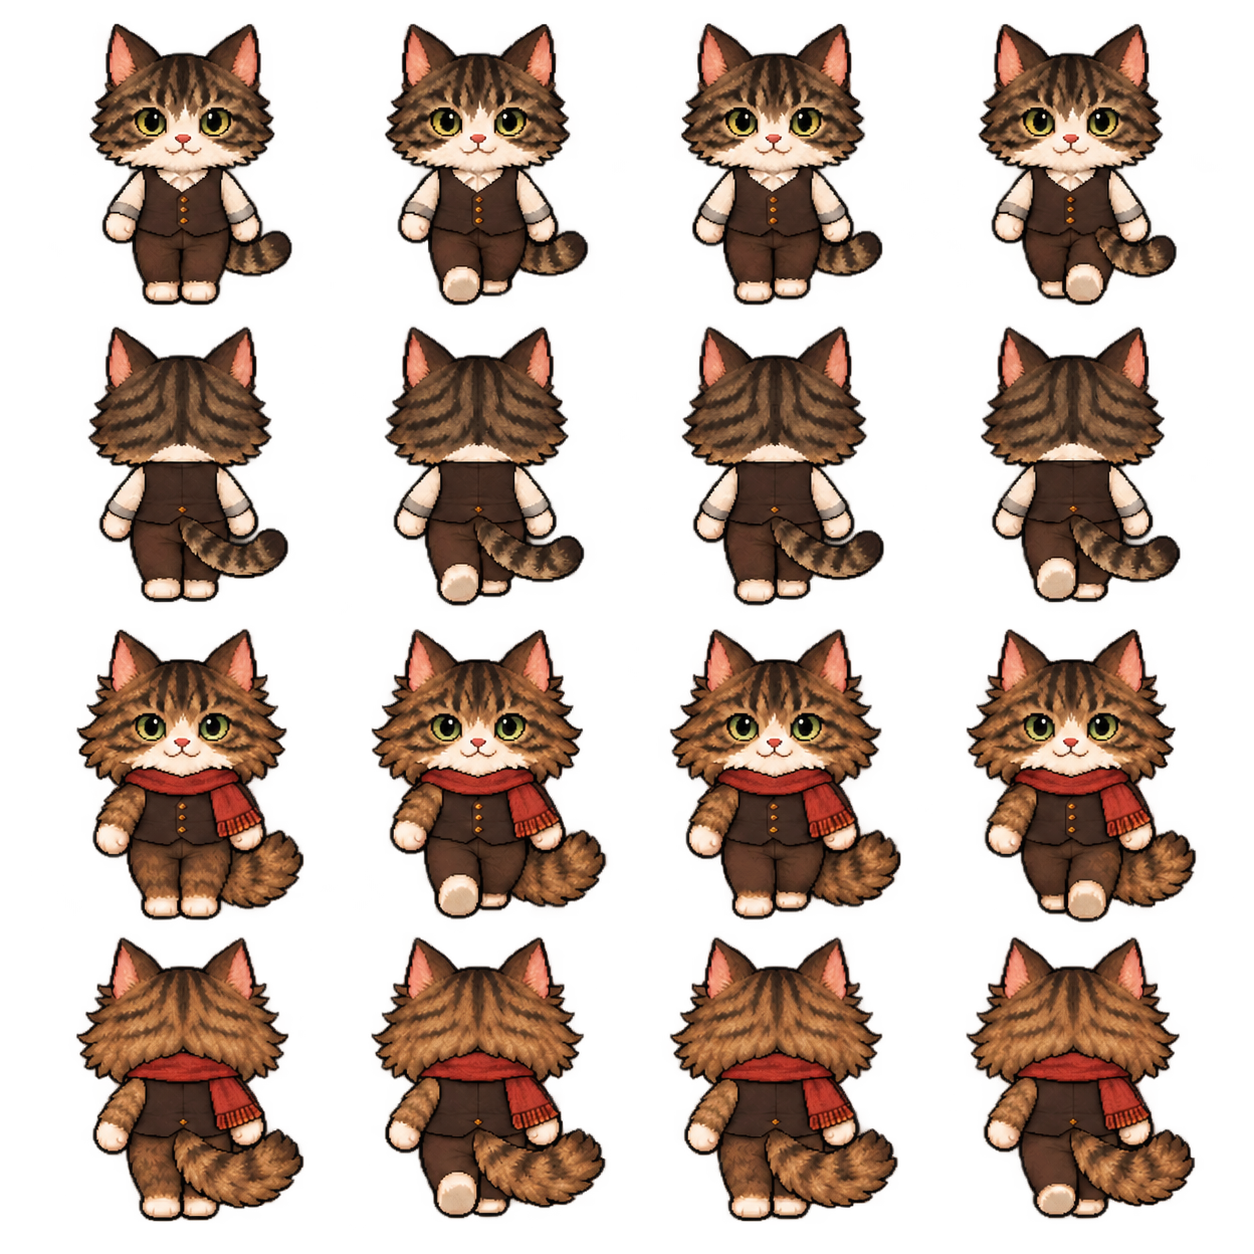
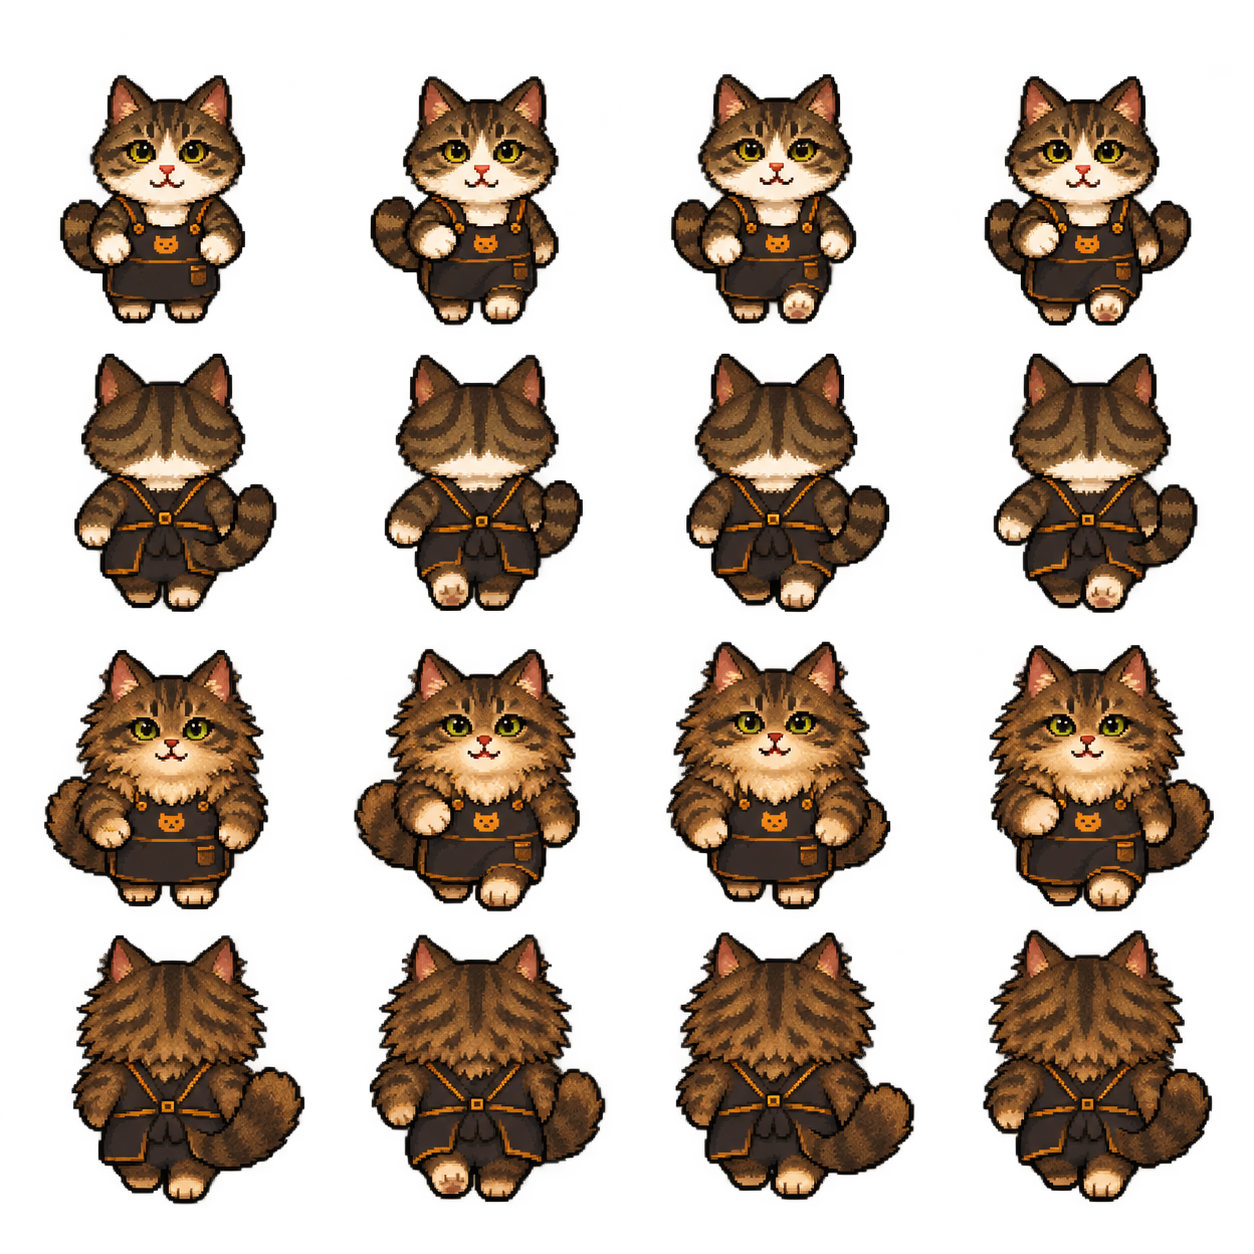
Reduce cat size and align facing walks with original motion artwork

diff --git a/animation-preview.html b/animation-preview.html
@@ -1,28 +1,28 @@
 <!doctype html><html lang="ja"><head><meta charset="utf-8"><meta name="viewport" content="width=device-width,initial-scale=1"><title>ぐりおとぽんた｜アニメーション確認</title><style>
-*{box-sizing:border-box}body{margin:0;background:#f7ecdb;color:#51372a;font-family:system-ui,sans-serif}header{padding:20px 16px;background:#7b4d32;color:white}h1{font-size:22px;margin:0}p{margin:8px 0}.wrap{max-width:1000px;margin:auto;padding:16px}.controls{display:flex;gap:12px;align-items:center;flex-wrap:wrap;padding:12px;background:#fff7ec;border-radius:14px;margin-bottom:16px}.grid{display:grid;grid-template-columns:repeat(auto-fit,minmax(160px,1fr));gap:12px}.card{background:#fffaf1;border:2px solid #dfb995;border-radius:16px;padding:12px;text-align:center}.card h2{font-size:16px;margin:0 0 8px}.stage{height:145px;display:flex;align-items:end;justify-content:center;background:linear-gradient(#f3dfc8 72%,#d1a47c 72%);border-radius:10px;overflow:hidden}.stage canvas{width:120px;height:130px;image-rendering:pixelated}label{font-weight:bold}input{accent-color:#a66b45}a{color:#a0552f}small{color:#826a57}</style></head><body><header><h1>🐾 ぐりお・ぽんた アニメーション検査室</h1><p>本番と同じ素材・基準位置で、歩行全コマと表情8種類を確認できます。設定画から切り出した素材と、足先だけを動かす歩行4コマを表示します。毛づくろいは既存ポーズで代用しています。</p></header><main class="wrap"><div class="controls"><label><input type="checkbox" id="play" checked> 再生</label><label>速度 <input id="speed" type="range" min="1" max="12" value="6"></label><label><input id="flip" type="checkbox"> 左右反転</label><small>スプライトの欠け・顔・口・足元をチェック</small></div><div id="grid" class="grid"></div><p><a href="./">← ゲームに戻る</a></p></main><script src="./character-detail.js?v=20261011-direction-bow"></script><script src="./character-art.js?v=20261011-direction-bow"></script><script>
+*{box-sizing:border-box}body{margin:0;background:#f7ecdb;color:#51372a;font-family:system-ui,sans-serif}header{padding:20px 16px;background:#7b4d32;color:white}h1{font-size:22px;margin:0}p{margin:8px 0}.wrap{max-width:1000px;margin:auto;padding:16px}.controls{display:flex;gap:12px;align-items:center;flex-wrap:wrap;padding:12px;background:#fff7ec;border-radius:14px;margin-bottom:16px}.grid{display:grid;grid-template-columns:repeat(auto-fit,minmax(160px,1fr));gap:12px}.card{background:#fffaf1;border:2px solid #dfb995;border-radius:16px;padding:12px;text-align:center}.card h2{font-size:16px;margin:0 0 8px}.stage{height:145px;display:flex;align-items:end;justify-content:center;background:linear-gradient(#f3dfc8 72%,#d1a47c 72%);border-radius:10px;overflow:hidden}.stage canvas{width:120px;height:130px;image-rendering:pixelated}label{font-weight:bold}input{accent-color:#a66b45}a{color:#a0552f}small{color:#826a57}</style></head><body><header><h1>🐾 ぐりお・ぽんた アニメーション検査室</h1><p>本番と同じ素材・基準位置で、歩行全コマと表情8種類を確認できます。元のモーションと、それに合わせた前後の歩行をゲームと同じ縮小率で表示します。毛づくろいは既存ポーズで代用しています。</p></header><main class="wrap"><div class="controls"><label><input type="checkbox" id="play" checked> 再生</label><label>速度 <input id="speed" type="range" min="1" max="12" value="6"></label><label><input id="flip" type="checkbox"> 左右反転</label><small>スプライトの欠け・顔・口・足元をチェック</small></div><div id="grid" class="grid"></div><p><a href="./">← ゲームに戻る</a></p></main><script src="./character-detail.js?v=20261011-direction-bow"></script><script src="./character-art.js?v=20261011-motion-scale"></script><script src="./rear-walk.js?v=20261011-motion-scale"></script><script>
 const items=[];
 const names={idle:'待機',sit:'座る',jump:'ジャンプ／喜ぶ',bow:'お辞儀／接客',serve:'配膳',coffee:'調理',cake:'ケーキ',clean:'掃除',surprise:'驚く',sleepbag:'睡眠',box:'段ボール',f_normal:'通常',f_happy:'笑顔',f_kiri:'にっこり',f_surprise:'驚き',f_sleepy:'眠い',f_angry:'怒る',f_tehe:'照れる',f_amae:'甘える'};
 let tick=0,last=0;
-CatArtwork.load().then(sprites=>{
+Promise.all([CatArtwork.load(),RearWalk.load]).then(([sprites])=>{
   for(const who of Object.keys(sprites)) {
-    const poses=[['walk', [0,1,2,3].map(i=>sprites[who]['walk'+i])], ...Object.entries(sprites[who]).map(([key,im])=>[key,[im]])];
+    const poses=[['frontWalk', [0,1,2,3].map(i=>RearWalk.cat(who,i,sprites[who].walk0,null,'front'))],['backWalk', [0,1,2,3].map(i=>RearWalk.cat(who,i,sprites[who].walk0,null,'back'))],['walk', [0,1,2,3].map(i=>sprites[who]['walk'+i])], ...Object.entries(sprites[who]).map(([key,im])=>[key,[im]])];
     for(const [key,frames] of poses){
       const card=document.createElement('section');card.className='card';
-      const title=document.createElement('h2');title.textContent=(who==='grio'?'ぐりお':'ぽんた')+'・'+(key==='walk'?'歩行4コマ':key.startsWith('walk')?'歩行コマ '+key.slice(-1):(names[key]||({run:'走る',joy:'喜ぶ'}[key])||key));
+      const title=document.createElement('h2');title.textContent=(who==='grio'?'ぐりお':'ぽんた')+'・'+(key==='frontWalk'?'前向きの歩行':key==='backWalk'?'後ろ向きの歩行':key==='walk'?'横向きの歩行4コマ':key.startsWith('walk')?'歩行コマ '+key.slice(-1):(names[key]||({run:'走る',joy:'喜ぶ'}[key])||key));
       const stage=document.createElement('div');stage.className='stage';
       const cv=document.createElement('canvas');cv.width=160;cv.height=130;cv.style.width='160px';
-      stage.append(cv);card.append(title,stage);document.querySelector('#grid').append(card);items.push({key,frames,cv});
+      stage.append(cv);card.append(title,stage);document.querySelector('#grid').append(card);items.push({who,key,frames,cv});
     }
   }
 }).catch(e=>{document.querySelector('#grid').textContent=e.message;});
 function render(now){
   if(document.querySelector('#play').checked&&now-last>180-document.querySelector('#speed').value*10){tick++;last=now;}
-  for(const {frames,cv} of items){
+  for(const {who,frames,cv} of items){
     const g=cv.getContext('2d'),im=frames[tick%frames.length];
     g.clearRect(0,0,cv.width,cv.height);g.imageSmoothingEnabled=false;g.save();
     if(document.querySelector('#flip').checked){g.translate(cv.width,0);g.scale(-1,1);}
-    const scale=Math.min(2,cv.width/im.width,(cv.height-2)/im.height);
-    g.drawImage(im,Math.round((cv.width-im.width*scale)/2),Math.round(cv.height-im.height*scale),Math.round(im.width*scale),Math.round(im.height*scale));g.restore();
+    const size=CatArtwork.displaySize(who,im);
+    g.drawImage(im,Math.round((cv.width-size.width)/2),cv.height-size.height,size.width,size.height);g.restore();
     g.fillStyle='#bd9272';g.fillRect(0,129,160,1);
   }
   requestAnimationFrame(render);

diff --git a/rear-walk.js b/rear-walk.js
@@ -2,7 +2,7 @@
 (function () {
   'use strict';
   const mainCats = new Image(), extraCats = new Image(), guestAtlas = new Image(), cache = new Map();
-  const mainMeta = [[{"bounds":[90,24,202,281],"axis":181.5},{"bounds":[385,24,203,281],"axis":477},{"bounds":[681,24,201,281],"axis":772.5},{"bounds":[979,24,197,281],"axis":1070}],[{"bounds":[89,327,199,275],"axis":179.5},{"bounds":[385,327,199,279],"axis":476},{"bounds":[682,327,202,278],"axis":773.5},{"bounds":[981,327,199,275],"axis":1072}],[{"bounds":[77,629,226,291],"axis":181},{"bounds":[372,630,234,289],"axis":477},{"bounds":[670,630,231,289],"axis":775},{"bounds":[967,629,229,293],"axis":1070.5}],[{"bounds":[77,938,226,283],"axis":182},{"bounds":[372,938,233,280],"axis":477},{"bounds":[670,938,227,283],"axis":775.5},{"bounds":[967,938,228,281],"axis":1072.5}]];
+  const mainMeta = [[{"bounds":[60,75,185,248],"axis":167},{"bounds":[371,76,188,249],"axis":480.5},{"bounds":[671,74,185,250],"axis":774.5},{"bounds":[985,76,206,250],"axis":1081.5}],[{"bounds":[74,354,202,258],"axis":162.5},{"bounds":[385,355,198,256],"axis":477},{"bounds":[686,354,203,258],"axis":775.5},{"bounds":[994,354,203,259],"axis":1090}],[{"bounds":[44,650,224,259],"axis":169},{"bounds":[354,649,226,262],"axis":480},{"bounds":[667,642,223,267],"axis":771},{"bounds":[989,645,225,266],"axis":1086}],[{"bounds":[72,935,232,269],"axis":172},{"bounds":[370,935,235,267],"axis":475},{"bounds":[676,933,238,267],"axis":777.5},{"bounds":[983,930,229,272],"axis":1086.5}]];
   const extraMeta = [[{"bounds":[62,9,164,215],"axis":132},{"bounds":[275,9,161,215],"axis":344.5},{"bounds":[477,9,166,215],"axis":547},{"bounds":[685,9,163,215],"axis":754}],[{"bounds":[64,225,163,204],"axis":132.5},{"bounds":[277,224,163,208],"axis":346},{"bounds":[481,225,166,205],"axis":549.5},{"bounds":[688,224,164,208],"axis":756}],[{"bounds":[62,442,165,216],"axis":132.5},{"bounds":[274,442,162,218],"axis":343},{"bounds":[479,441,166,217],"axis":548},{"bounds":[685,442,163,218],"axis":754.5}],[{"bounds":[65,661,161,215],"axis":133.5},{"bounds":[275,661,164,216],"axis":343.5},{"bounds":[480,661,167,215],"axis":550},{"bounds":[687,661,164,216],"axis":755.5}],[{"bounds":[61,890,166,218],"axis":133.5},{"bounds":[273,890,164,220],"axis":345.5},{"bounds":[478,890,166,218],"axis":549},{"bounds":[684,890,164,219],"axis":755}],[{"bounds":[63,1114,163,211],"axis":132},{"bounds":[275,1114,165,213],"axis":344.5},{"bounds":[479,1114,167,211],"axis":549.5},{"bounds":[687,1114,164,212],"axis":756}],[{"bounds":[59,1334,167,219],"axis":131.5},{"bounds":[273,1334,165,220],"axis":344.5},{"bounds":[478,1334,167,218],"axis":550},{"bounds":[685,1334,164,220],"axis":756.5}],[{"bounds":[64,1557,163,206],"axis":133},{"bounds":[277,1557,163,207],"axis":345.5},{"bounds":[481,1557,166,206],"axis":551.5},{"bounds":[688,1557,164,207],"axis":757}]];
   const guestMeta = [[{"bounds":[80,490,149,256],"axis":154},{"bounds":[320,490,148,256],"axis":393.5},{"bounds":[558,490,150,256],"axis":632.5},{"bounds":[800,490,148,256],"axis":873.5}],[{"bounds":[88,759,134,266],"axis":154.5},{"bounds":[323,759,135,266],"axis":390},{"bounds":[566,759,135,266],"axis":633},{"bounds":[806,759,135,266],"axis":873}],[{"bounds":[75,1039,150,241],"axis":149.5},{"bounds":[312,1039,150,240],"axis":386.5},{"bounds":[558,1039,150,241],"axis":632.5},{"bounds":[794,1039,149,240],"axis":868}],[{"bounds":[68,1288,170,236],"axis":152.5},{"bounds":[303,1288,170,237],"axis":388.5},{"bounds":[547,1287,170,238],"axis":632},{"bounds":[785,1288,171,236],"axis":871}]];
   const catRows = { grio: [mainCats, mainMeta, 0], ponta: [mainCats, mainMeta, 2],
@@ -16,16 +16,16 @@
       image.onerror = () => reject(new Error('Character facing atlas failed to load'));
     }
   });
-  mainCats.src = './cat-facing-main.png?v=20261011-matched';
+  mainCats.src = './cat-facing-main.png?v=20261011-motion-scale';
   extraCats.src = './cat-facing-extra.png?v=20261011-matched';
   guestAtlas.src = './rear-walk-atlas.png?v=20261011-generated-rear';
-  function sprite(key, image, record, group, width, height) {
+  function sprite(key, image, record, group, width, height, bodyHeight = height - 10) {
     if (cache.has(key)) return cache.get(key);
     const c = document.createElement('canvas'); c.width = width; c.height = height;
     const g = c.getContext('2d'); g.imageSmoothingEnabled = false;
     const [x, y, w, h] = record.bounds;
     // One uniform scale across both directions and all eight frames of a cat.
-    const scale = Math.min((height - 10) / Math.max(...group.map(item => item.bounds[3])),
+    const scale = Math.min(bodyHeight / Math.max(...group.map(item => item.bounds[3])),
       ...group.map(item => (width / 2 - 3) / Math.max(item.axis - item.bounds[0], item.bounds[0] + item.bounds[2] - item.axis)));
     const dx = Math.round(width / 2 - (record.axis - x) * scale);
     // Align soles to the same foot anchor in front and back views.
@@ -39,8 +39,10 @@
     const [image, meta, first] = catRows[pal], row = first + (facing === 'back' ? 1 : 0);
     const f = ((frame % 4) + 4) % 4;
     const group = [...meta[first], ...meta[first + 1]];
+    const bodyHeight = pal === 'grio' ? (source.width === 128 ? 111 : 58) :
+      pal === 'ponta' ? (source.width === 128 ? 107 : 58) : source.height - 10;
     const c = sprite(pal + ':' + facing + ':' + f + ':' + source.width + ':' + source.height,
-      image, meta[row][f], group, source.width, source.height);
+      image, meta[row][f], group, source.width, source.height, Math.min(source.height - 2, bodyHeight));
     c.generatedCat = true; c.generatedRear = facing === 'back'; return c;
   }
   function guest(look, frame) {

diff --git a/index.html b/index.html
@@ -307,11 +307,11 @@ button small { display: block; font-size: 11px; color: #e6d3b8; white-space: now
 <div id="modal" hidden><div class="panel" id="panel"></div></div>
 <script src="./kitchen-art.js?v=20261012-walk"></script>
 <script src="./guest-art.js?v=20261012-walk"></script>
-<script src="./rear-walk.js?v=20261011-matched-facing"></script>
+<script src="./rear-walk.js?v=20261011-motion-scale"></script>
 <script src="./cafe-art.js?v=20261012-walk"></script>
 <script src="./touch-controls.js?v=20261011-tap-guard"></script>
 <script src="./character-detail.js?v=20261012-walk"></script>
-<script src="./character-art.js?v=20261012-walk"></script>
+<script src="./character-art.js?v=20261011-motion-scale"></script>
 <script>
 'use strict';
 // ================= 画面 =================
@@ -1881,8 +1881,7 @@ function catImg(pal, pose, face, k) {
 }
 // Display-scale only: original pixels and common foot anchor stay unchanged.
 function catDisplaySize(pal, img) {
-  const scale = pal === 'grio' ? (img.width===128 ? .70 : 1.35) : pal === 'ponta' ? (img.width===128 ? .66 : 1.25) : 1;
-  return { width: Math.round(img.width * scale), height: Math.round(img.height * scale) };
+  return CatArtwork.displaySize(pal, img);
 }
 // A shallow bow uses the standing artwork throughout: ease in and out
 // around the foot anchor. No curled pose, face replacement, or stretching.
@@ -1951,7 +1950,7 @@ function drawPonta() {
   const img = catImg('ponta', pose, p.face, Object.assign(p, { pal: 'ponta' }));
   const size = catDisplaySize('ponta', img);
   const X = Math.round(p.x * 2 - size.width / 2), Y = Math.round(p.y * 2 - size.height + catMotionOffset(p, pose));
-  floorShadow(p.x * 2, p.y * 2 - 1, (CHAR_SPR['ponta'] ? 16 : Math.round(img.width * 0.32)), 3, 0.18);
+  floorShadow(p.x * 2, p.y * 2 - 1, (CHAR_SPR['ponta'] ? 13 : Math.round(img.width * 0.25)), 3, 0.18);
   drawCatArtwork(img, X, Y, size, p);
   if (p.carry) drawAt(ICON2[p.carry.item.id], p.x * 2 - 12, Y - 26 + ((tick >> 3) & 1) * 2, 24);
   else {
@@ -1980,7 +1979,7 @@ function drawCat(k) {
   let Y = Math.round(k.y * 2 - size.height + catMotionOffset(k, pose));
   if (k.state === 'eat' && (k.t >> 4) & 1) Y += 2;
   if (k.jump > 0) Y -= Math.round(Math.sin(k.jump / 16 * Math.PI) * 12);
-  if (!(k.spot === TOWER && k.state === 'nap') && k.spot !== BOX) floorShadow(k.x * 2, k.y * 2 - 1, CHAR_SPR[k.pal] ? 18 : Math.round(img.width * 0.32), 3, 0.18);
+  if (!(k.spot === TOWER && k.state === 'nap') && k.spot !== BOX) floorShadow(k.x * 2, k.y * 2 - 1, CHAR_SPR[k.pal] ? 14 : Math.round(img.width * 0.25), 3, 0.18);
   drawCatArtwork(img, k.x * 2 - size.width / 2, Y, size, k);
   if (k.carry) drawAt(PLATE2, k.x * 2 - 9, Y - 10 + ((tick >> 3) & 1) * 2);
   if (k.carryDish && k.dish) drawAt(ICON2[k.dish.item.id], k.x * 2 - 12, Y - 24 + ((tick >> 3) & 1) * 2, 24);

diff --git a/cat-facing-preview.html b/cat-facing-preview.html
@@ -22,12 +22,13 @@ figcaption{padding-top:8px;font-size:14px}
 </head>
 <body>
 <h1>ねこの前向きと後ろ向き</h1>
-<p>同じねこの前向き・後ろ向きを並べて見られます。</p>
+<p>同じねこの前向き・後ろ向きを、ゲーム内の大きさで並べて見られます。</p>
 <button id="toggle" type="button">歩行を止める</button>
-<p><a href="./">ゲームへ戻る</a></p>
+<p><a href="./">ゲームへ戻る</a> · <a href="./animation-preview.html">ぐりお・ぽんたの全モーション</a></p>
 <p id="status" role="status">素材を読み込んでいます…</p>
 <div class="grid" id="cats"></div>
-<script src="./rear-walk.js?v=20261011-matched-facing"></script>
+<script src="./character-art.js?v=20261011-motion-scale"></script>
+<script src="./rear-walk.js?v=20261011-motion-scale"></script>
 <script>
 (async function(){
   try {
@@ -48,7 +49,7 @@ figcaption{padding-top:8px;font-size:14px}
     let paused=matchMedia('(prefers-reduced-motion: reduce)').matches,frame=0,last=0;
     const button=document.getElementById('toggle');
     function label(){button.textContent=paused?'歩行を再生する':'歩行を止める';}
-    function draw(){for(const {pal,facing,cv} of views){const g=cv.getContext('2d');g.clearRect(0,0,128,144);g.imageSmoothingEnabled=false;g.drawImage(RearWalk.cat(pal,frame,source,null,facing),0,0);}}
+    function draw(){for(const {pal,facing,cv} of views){const g=cv.getContext('2d');g.clearRect(0,0,128,144);g.imageSmoothingEnabled=false;const model=(pal==='grio'||pal==='ponta')?source:{width:76,height:53},im=RearWalk.cat(pal,frame,model,null,facing),size=CatArtwork.displaySize(pal,im);g.drawImage(im,Math.round((128-size.width)/2),144-size.height,size.width,size.height);}}
     button.onclick=()=>{paused=!paused;label();};label();draw();
     function animate(time){if(!paused&&time-last>=150){frame=(frame+1)%4;last=time;draw();}requestAnimationFrame(animate);}
     requestAnimationFrame(animate);

diff --git a/character-art.js b/character-art.js
@@ -71,5 +71,11 @@
       image.src = new URL('chars.webp', document.currentScript?.src || location.href).href;
     });
   }
-  window.CatArtwork = { meta, width: WIDTH, height: HEIGHT, load };
+  // Apply one family scale to every pose, including old-resolution sleep frames.
+  function displaySize(pal, image) {
+    const scale = pal === 'grio' ? (image.width === 128 ? .55 : 1.05) :
+      pal === 'ponta' ? (image.width === 128 ? .52 : .98) : .78;
+    return { width: Math.round(image.width * scale), height: Math.round(image.height * scale) };
+  }
+  window.CatArtwork = { meta, width: WIDTH, height: HEIGHT, load, displaySize };
 })();

diff --git a/README.md b/README.md
@@ -75,14 +75,14 @@ SNSの店内写真もCanvasの縦横比でサイズを決定し、180×240への
 
 2026-10-12 客の方向対応：同じ4人の横向き歩行原画4コマを画像生成の標準ツールで追加（guest-walk.webp）。指示は「同じ顔・服を保ち、右向き側面の4コマ歩行、透過、足元を統一」。実移動のfaceで左右反転。立ち姿72→84px、正面座位66→72px、背面54→60pxへ縦横同率で拡大。全16コマと左右反転を検証。
 
-## 前向き・後ろ向きの素材と移動方向
+## 猫の表示サイズとモーション
 
-猫とお客さんは、斜めを含む画面奥（上方向）への移動では後ろ姿、斜めを含む手前（下方向）への移動では前向きで歩きます。真横の移動だけ左右向きになります。
+猫のゲーム内表示を約22%縮小しました。`CatArtwork.displaySize` に表示倍率を集約し、ぐりおの128×144素材は0.55倍、ぽんたは0.52倍、旧解像度のぐりおは1.05倍、ぽんたは0.98倍、他の猫と一時スタッフは0.78倍で描画します。待機・横歩行・調理・配膳・掃除・座る・ジャンプ・驚く・喜ぶの元の各素材には同じ倍率を使い、座る・眠る姿の自然な高さの違いを保ちます。
 
-猫6種類の前向き・後ろ向きは同じキャラクターのセットとして画像生成ツールで再生成しました。`cat-facing-main.png`（1254×1254）はぐりお・ぽんたの前後各4コマ、`cat-facing-extra.png`（887×1774）はみけ・くろ・しろ・ちゃちゃの前後各4コマを格納します。原画の猫の素材と既存の背面素材を参照し、「前後で毛色・服・体格・ドットの細かさを同じにする」と指定しました。ぽんたは前後とも茶色の毛の腕と赤いマフラー、ぐりおは前後ともクリーム色の袖と同じベストに揃えています。
+前後の歩行は元の `character-detail.js` のモーション設定画を参照して揃え直しました。`cat-facing-main.png`（1254×1254）はぐりお・ぽんたの前後各4コマを格納します。元の顔・毛並み・黒いエプロン・金色の縁と猫の模様に合わせています。原画の横歩行の体高（ぐりお111px・ぽんた107px）に前後素材を合わせ、同じ猫の前後全8コマで共通の倍率と足元基準を使います。`cat-facing-extra.png` は他4種類の猫の前後素材を格納します。横歩行とその他の動作・表情は元の素材を使います。
 
-`rear-walk.js` は猫ごとに前後全8コマで共通の縦横倍率と足元基準を使います。しっぽを除いた頭・胴体の中心で位置を揃え、コードで描いた前向きと画像の背面を切り替える処理を廃止しました。生成したコマの画素は完全に同一ではありません。`cat-facing-preview.html` で猫6種類の前後を並べて歩行を確認できます。
+猫とお客さんは、斜めを含む画面奥への移動で後ろ姿、手前への移動で前向き、真横の移動で左右向きになります。人の素材・サイズとセーブ形式は変更していません。
 
-人の背面は `rear-walk-atlas.png` の既存4人・各4コマを引き続き使用します。人の前向き・横向きと猫の横向き・その他の動作には既存の素材を使用します。3枚の画像の読み込みが終わってからゲームを開始します。セーブ形式は変更していません。
+`animation-preview.html` はぐりお・ぽんたの元の全モーションと前後の歩行をゲームと同じ表示倍率で確認できます。`cat-facing-preview.html` もゲーム内のサイズで猫6種類の前後を並べて表示します。
 
-`node tests/rear-walk-check.cjs` で猫6種類の前後全コマを3サイズで確認し、切り出し範囲、前後共通の倍率・足元、向きの切り替え、画像の読み込み待ち、スクリプト構文を検証できます。ブラウザでの動作確認には既存のPlaywrightテストを使ってください。
+`node tests/rear-walk-check.cjs` で猫6種類と一時スタッフの縮小、元の全モーションの倍率・ポーズ選択、前後の体高・切り出し・足元・向きの切り替え・画像の読み込み待ちを検証できます。`node tests/browser-check.cjs` は縮小後の表示と追加された前後歩行を含む確認ページに対応しています。
